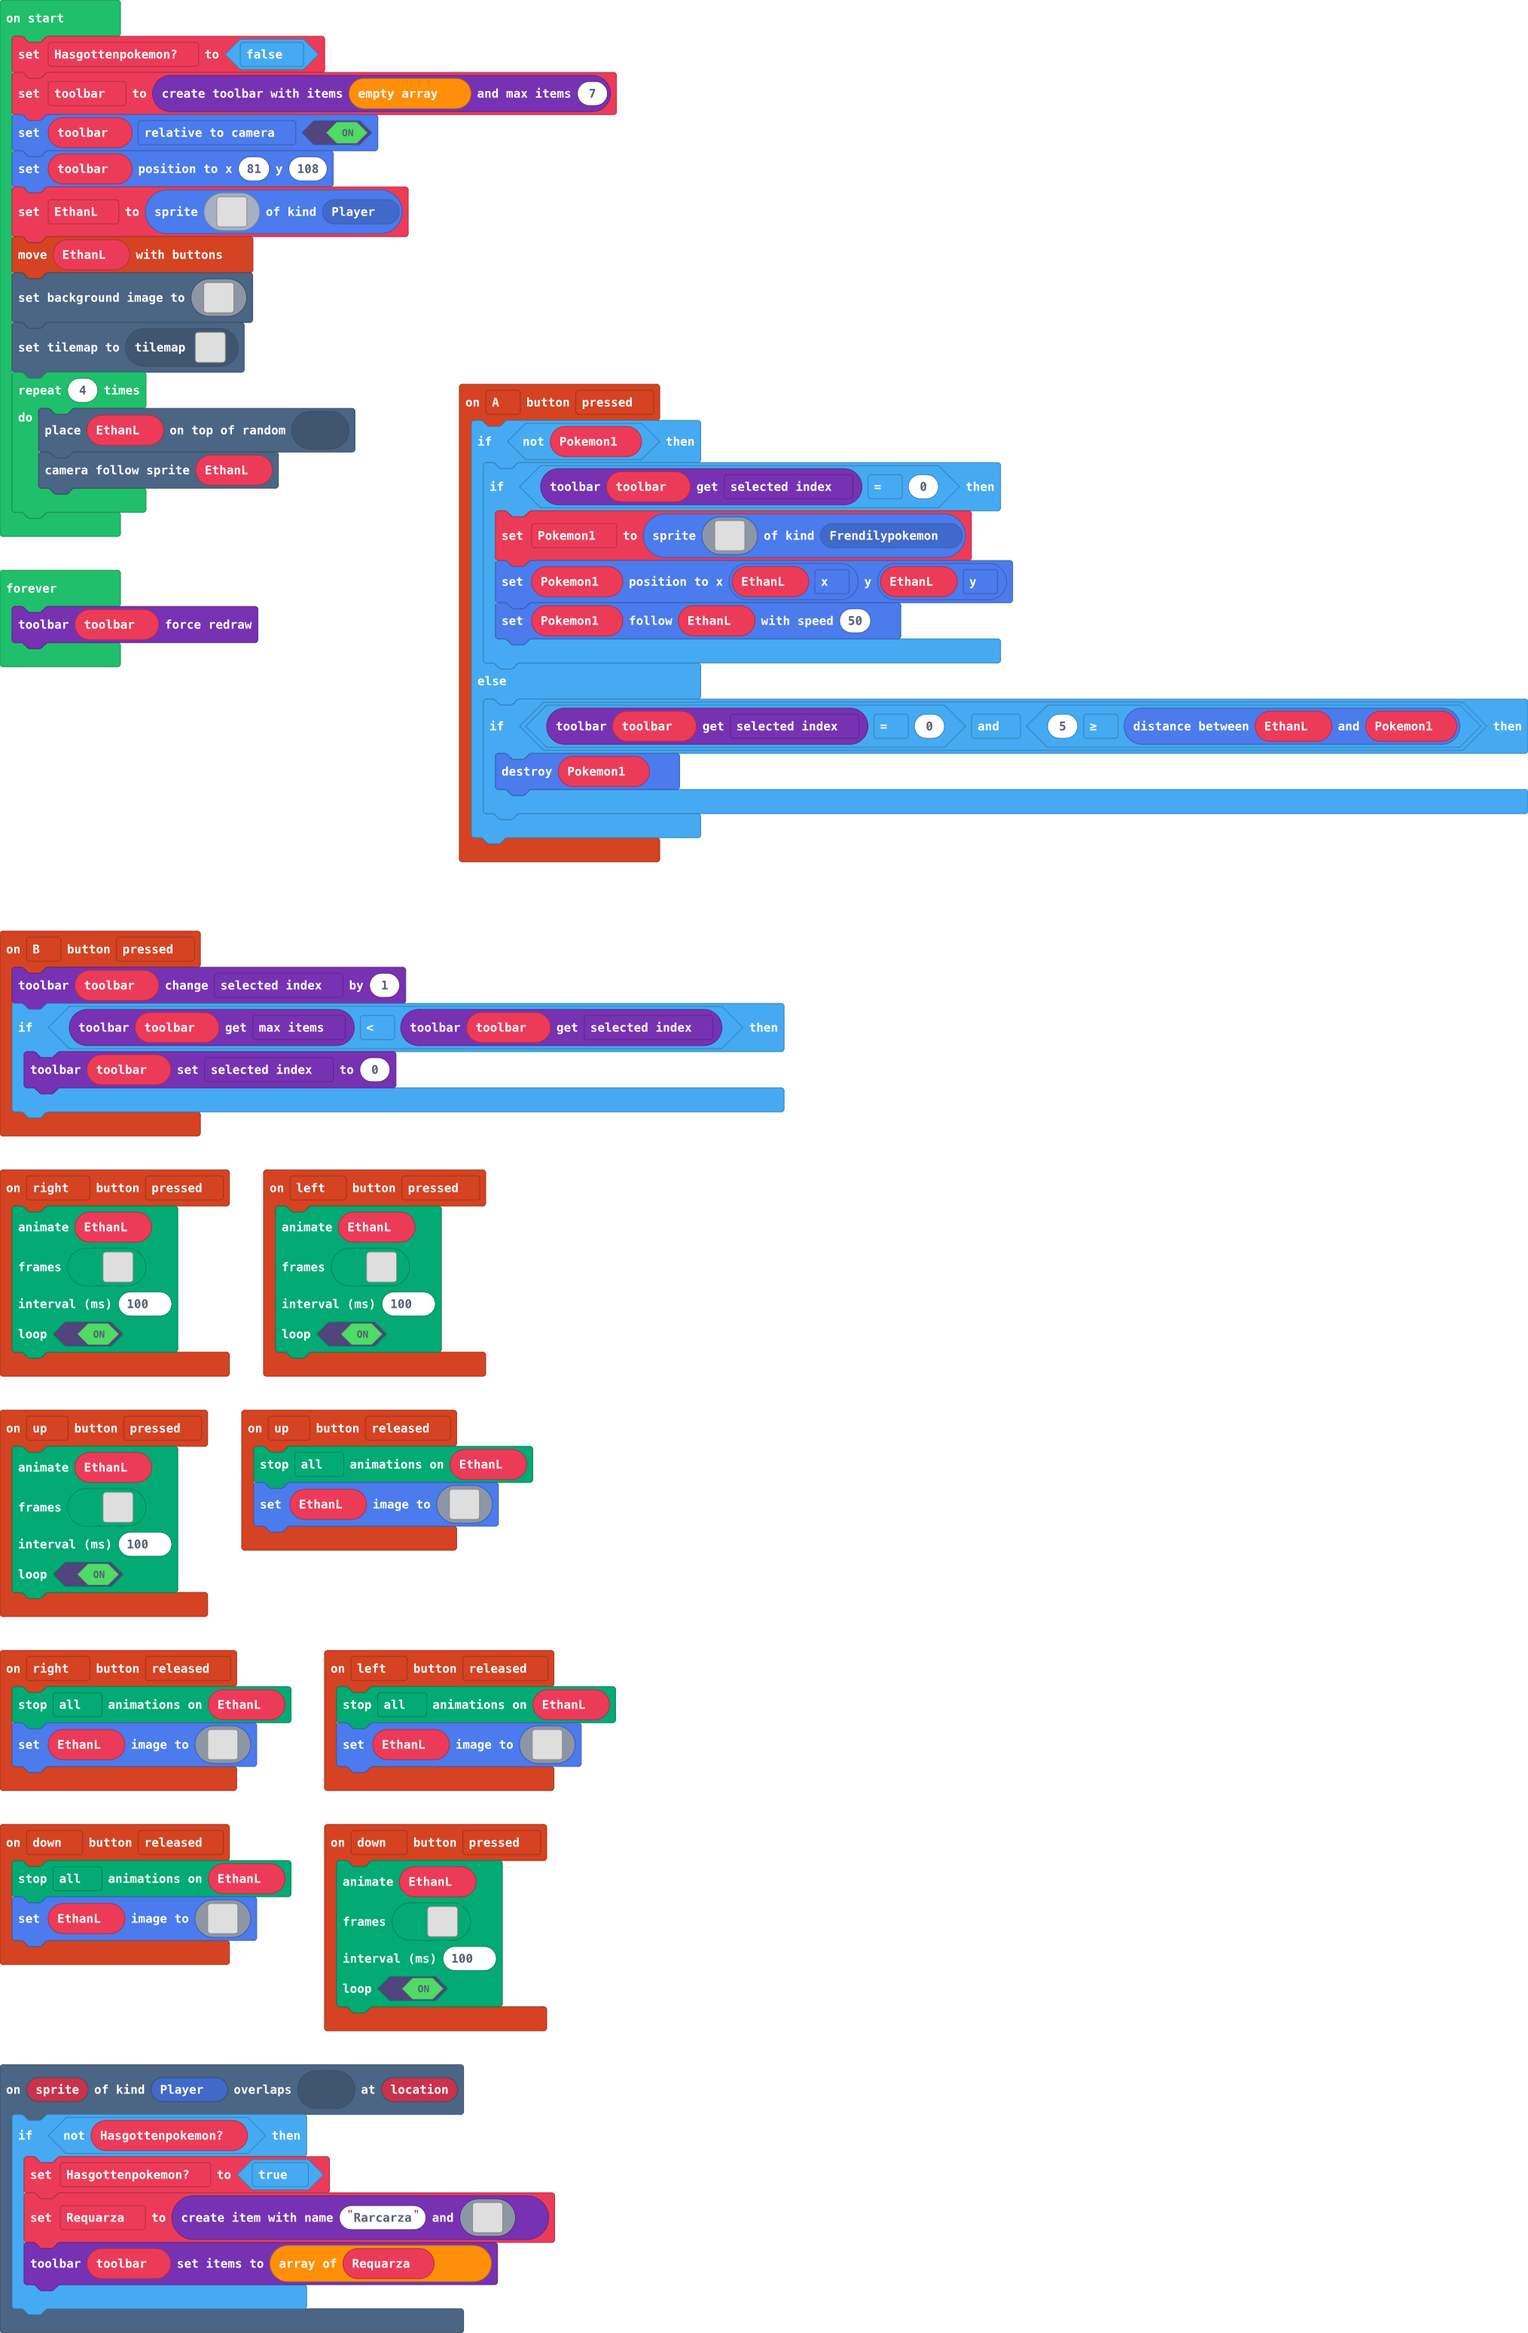
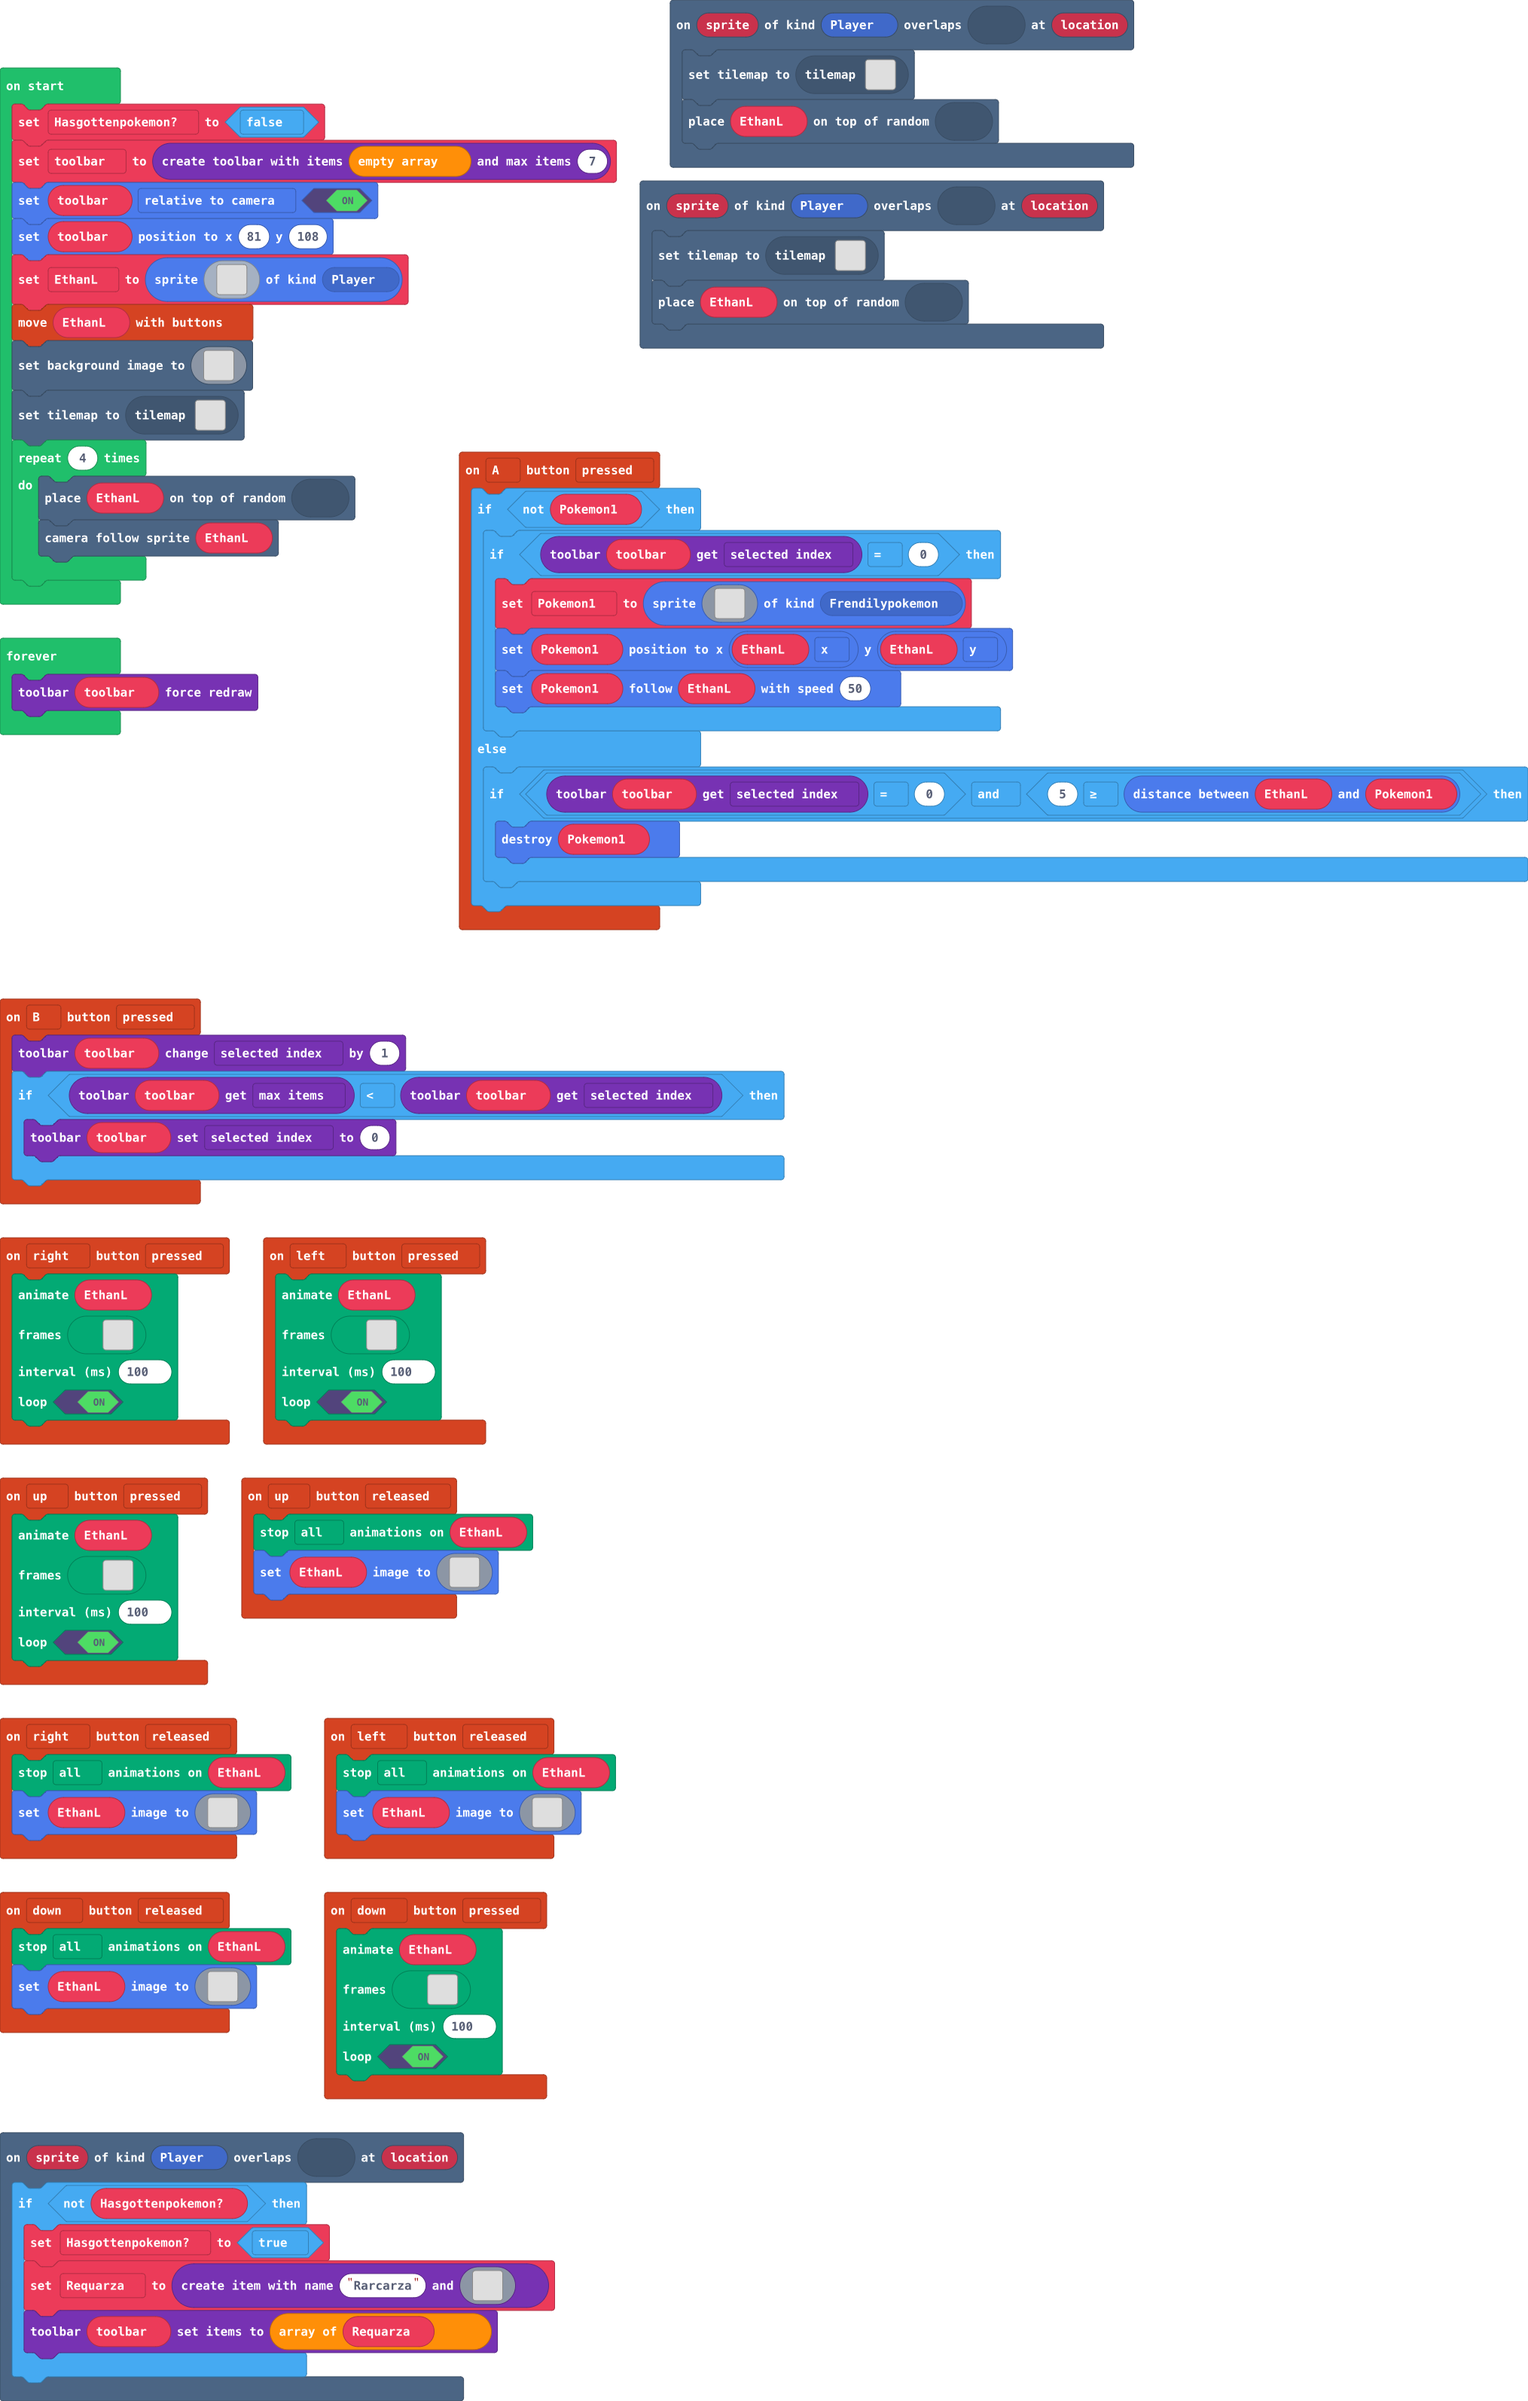
Update main.blocks, main.ts, tilemap.g.jres, tilemap.g.ts

Changed region(s): [[0.0, 0.0, 1.0, 0.9919]]

diff --git a/tilemap.g.ts b/tilemap.g.ts
@@ -7,8 +7,6 @@ namespace myTiles {
     //% fixedInstance jres blockIdentity=images._tile
     export const tile3 = image.ofBuffer(hex``);
     //% fixedInstance jres blockIdentity=images._tile
-    export const tile2 = image.ofBuffer(hex``);
-    //% fixedInstance jres blockIdentity=images._tile
     export const tile4 = image.ofBuffer(hex``);
     //% fixedInstance jres blockIdentity=images._tile
     export const tile5 = image.ofBuffer(hex``);
@@ -20,6 +18,10 @@ namespace myTiles {
     export const tile8 = image.ofBuffer(hex``);
     //% fixedInstance jres blockIdentity=images._tile
     export const tile9 = image.ofBuffer(hex``);
+    //% fixedInstance jres blockIdentity=images._tile
+    export const tile10 = image.ofBuffer(hex``);
+    //% fixedInstance jres blockIdentity=images._tile
+    export const tile2 = image.ofBuffer(hex``);
 
     helpers._registerFactory("tilemap", function(name: string) {
         switch(helpers.stringTrim(name)) {
@@ -62,7 +64,7 @@ namespace myTiles {
 . . . . . . . . . . . . . . . . 
 `, [myTiles.transparency16], TileScale.Sixteen);
             case "level1":
[2 lines of base64/hex data omitted]
 2222222222222222
 2222222222222222
 2222.........222
@@ -318,7 +320,64 @@ namespace myTiles {
 2222222222222222
 2222222222222222
 2222222222222222
-`, [myTiles.transparency16,sprites.castle.tileGrass2,sprites.castle.tilePath8,sprites.castle.tilePath3,sprites.castle.tilePath7,sprites.castle.tilePath4,sprites.castle.tilePath1,sprites.castle.tilePath2,sprites.castle.tilePath6,sprites.castle.tilePath9,sprites.castle.tilePath5,myTiles.tile1,sprites.castle.tileDarkGrass2,sprites.castle.tileDarkGrass1,sprites.castle.tileDarkGrass3,myTiles.tile3], TileScale.Sixteen);
+`, [myTiles.transparency16,sprites.castle.tileGrass2,sprites.castle.tilePath8,sprites.castle.tilePath3,sprites.castle.tilePath7,sprites.castle.tilePath4,sprites.castle.tilePath1,sprites.castle.tilePath2,sprites.castle.tilePath6,sprites.castle.tilePath9,sprites.castle.tilePath5,myTiles.tile1,sprites.castle.tileDarkGrass2,sprites.castle.tileDarkGrass1,sprites.castle.tileDarkGrass3,myTiles.tile3,myTiles.tile7,myTiles.tile10], TileScale.Sixteen);
+            case "level":
+            case "level4":return tiles.createTilemap(hex`1000100003030303030303030203030303030301030303030303030303030303030303030303030303030303030303030303030303030303030303030303030303030303030303030303030303030303030303030303030303030303030303030303030303030303030303030303030303030303030303030303030303030303030303030303030303030303030303030303030303030303030303030303030303030303030303030303030303030303030303030303030303030303030303030303030303030303030303030303030303030303030303030303030303030303030303030303030303030303030303030303030303030303030303030303030303030303`, img`
+. . . . . . . . . . . . . . . . 
+. . . . . . . . . . . . . . . . 
+. . . . . . . . . . . . . . . . 
+. . . . . . . . . . . . . . . . 
+. . . . . . . . . . . . . . . . 
+. . . . . . . . . . . . . . . . 
+. . . . . . . . . . . . . . . . 
+. . . . . . . . . . . . . . . . 
+. . . . . . . . . . . . . . . . 
+. . . . . . . . . . . . . . . . 
+. . . . . . . . . . . . . . . . 
+. . . . . . . . . . . . . . . . 
+. . . . . . . . . . . . . . . . 
+. . . . . . . . . . . . . . . . 
+. . . . . . . . . . . . . . . . 
+. . . . . . . . . . . . . . . . 
+`, [myTiles.transparency16,myTiles.tile2,myTiles.tile8,myTiles.tile9], TileScale.Sixteen);
+            case "level5":
+            case "level5":return tiles.createTilemap(hex`1000100000000000000000000000000000000000000000000000000000000000000000000000000000000000000000000000000000000000000000000000000000000000000000000000000000000000000000000000000000000000000000000000000000000000000000000000000000000000000000000000000000000000000000000000000000000000000000000000000000000000000000000000000000000000000000000000000000000000000000000000000000000000000000000000000000000000000000000000000000000000000000000000000000000000000000000000000000000000000000000000000000000000000000000000000000000000`, img`
+. . . . . . . . . . . . . . . . 
+. . . . . . . . . . . . . . . . 
+. . . . . . . . . . . . . . . . 
+. . . . . . . . . . . . . . . . 
+. . . . . . . . . . . . . . . . 
+. . . . . . . . . . . . . . . . 
+. . . . . . . . . . . . . . . . 
+. . . . . . . . . . . . . . . . 
+. . . . . . . . . . . . . . . . 
+. . . . . . . . . . . . . . . . 
+. . . . . . . . . . . . . . . . 
+. . . . . . . . . . . . . . . . 
+. . . . . . . . . . . . . . . . 
+. . . . . . . . . . . . . . . . 
+. . . . . . . . . . . . . . . . 
+. . . . . . . . . . . . . . . . 
+`, [myTiles.transparency16], TileScale.Sixteen);
+            case "level6":
+            case "level6":return tiles.createTilemap(hex`1000100000000000000000000000000000000000000000000000000000000000000000000000000000000000000000000000000000000000000000000000000000000000000000000000000000000000000000000000000000000000000000000000000000000000000000000000000000000000000000000000000000000000000000000000000000000000000000000000000000000000000000000000000000000000000000000000000000000000000000000000000000000000000000000000000000000000000000000000000000000000000000000000000000000000000000000000000000000000000000000000000000000000000000000000000000000000`, img`
+. . . . . . . . . . . . . . . . 
+. . . . . . . . . . . . . . . . 
+. . . . . . . . . . . . . . . . 
+. . . . . . . . . . . . . . . . 
+. . . . . . . . . . . . . . . . 
+. . . . . . . . . . . . . . . . 
+. . . . . . . . . . . . . . . . 
+. . . . . . . . . . . . . . . . 
+. . . . . . . . . . . . . . . . 
+. . . . . . . . . . . . . . . . 
+. . . . . . . . . . . . . . . . 
+. . . . . . . . . . . . . . . . 
+. . . . . . . . . . . . . . . . 
+. . . . . . . . . . . . . . . . 
+. . . . . . . . . . . . . . . . 
+. . . . . . . . . . . . . . . . 
+`, [myTiles.transparency16], TileScale.Sixteen);
         }
         return null;
     })
@@ -330,8 +389,6 @@ namespace myTiles {
             case "tile1":return tile1;
             case "myTile1":
             case "tile3":return tile3;
-            case "myTile0":
-            case "tile2":return tile2;
             case "myTile2":
             case "tile4":return tile4;
             case "myTile3":
@@ -344,6 +401,10 @@ namespace myTiles {
             case "tile8":return tile8;
             case "myTile7":
             case "tile9":return tile9;
+            case "myTile8":
+            case "tile10":return tile10;
+            case "myTile0":
+            case "tile2":return tile2;
         }
         return null;
     })

diff --git a/main.ts b/main.ts
@@ -84,6 +84,10 @@ controller.up.onEvent(ControllerButtonEvent.Pressed, function () {
     true
     )
 })
+scene.onOverlapTile(SpriteKind.Player, assets.tile`myTile6`, function (sprite, location) {
+    tiles.setCurrentTilemap(tilemap`level1`)
+    tiles.placeOnRandomTile(EthanL, assets.tile`myTile8`)
+})
 controller.B.onEvent(ControllerButtonEvent.Pressed, function () {
     toolbar.change_number(ToolbarNumberAttribute.SelectedIndex, 1)
     if (toolbar.get_number(ToolbarNumberAttribute.MaxItems) < toolbar.get_number(ToolbarNumberAttribute.SelectedIndex)) {
@@ -381,6 +385,10 @@ controller.down.onEvent(ControllerButtonEvent.Pressed, function () {
     true
     )
 })
+scene.onOverlapTile(SpriteKind.Player, assets.tile`myTile5`, function (sprite, location) {
+    tiles.setCurrentTilemap(tilemap`level`)
+    tiles.placeOnRandomTile(EthanL, assets.tile`myTile0`)
+})
 let Pokemon1: Sprite = null
 let Requarza: Inventory.Item = null
 let EthanL: Sprite = null
@@ -531,7 +539,7 @@ scene.setBackgroundImage(img`
     8888888888888888888888888888888888888888888888888888888888888888888888888888888888888888888888888888888888888888888888888888888888888888888888888888888888888888
     8888888888888888888888888888888888888888888888888888888888888888888888888888888888888888888888888888888888888888888888888888888888888888888888888888888888888888
     `)
-tiles.setCurrentTilemap(tilemap`level1`)
+tiles.setCurrentTilemap(tilemap`level`)
 for (let index = 0; index < 4; index++) {
     tiles.placeOnRandomTile(EthanL, assets.tile`myTile0`)
     scene.cameraFollowSprite(EthanL)
